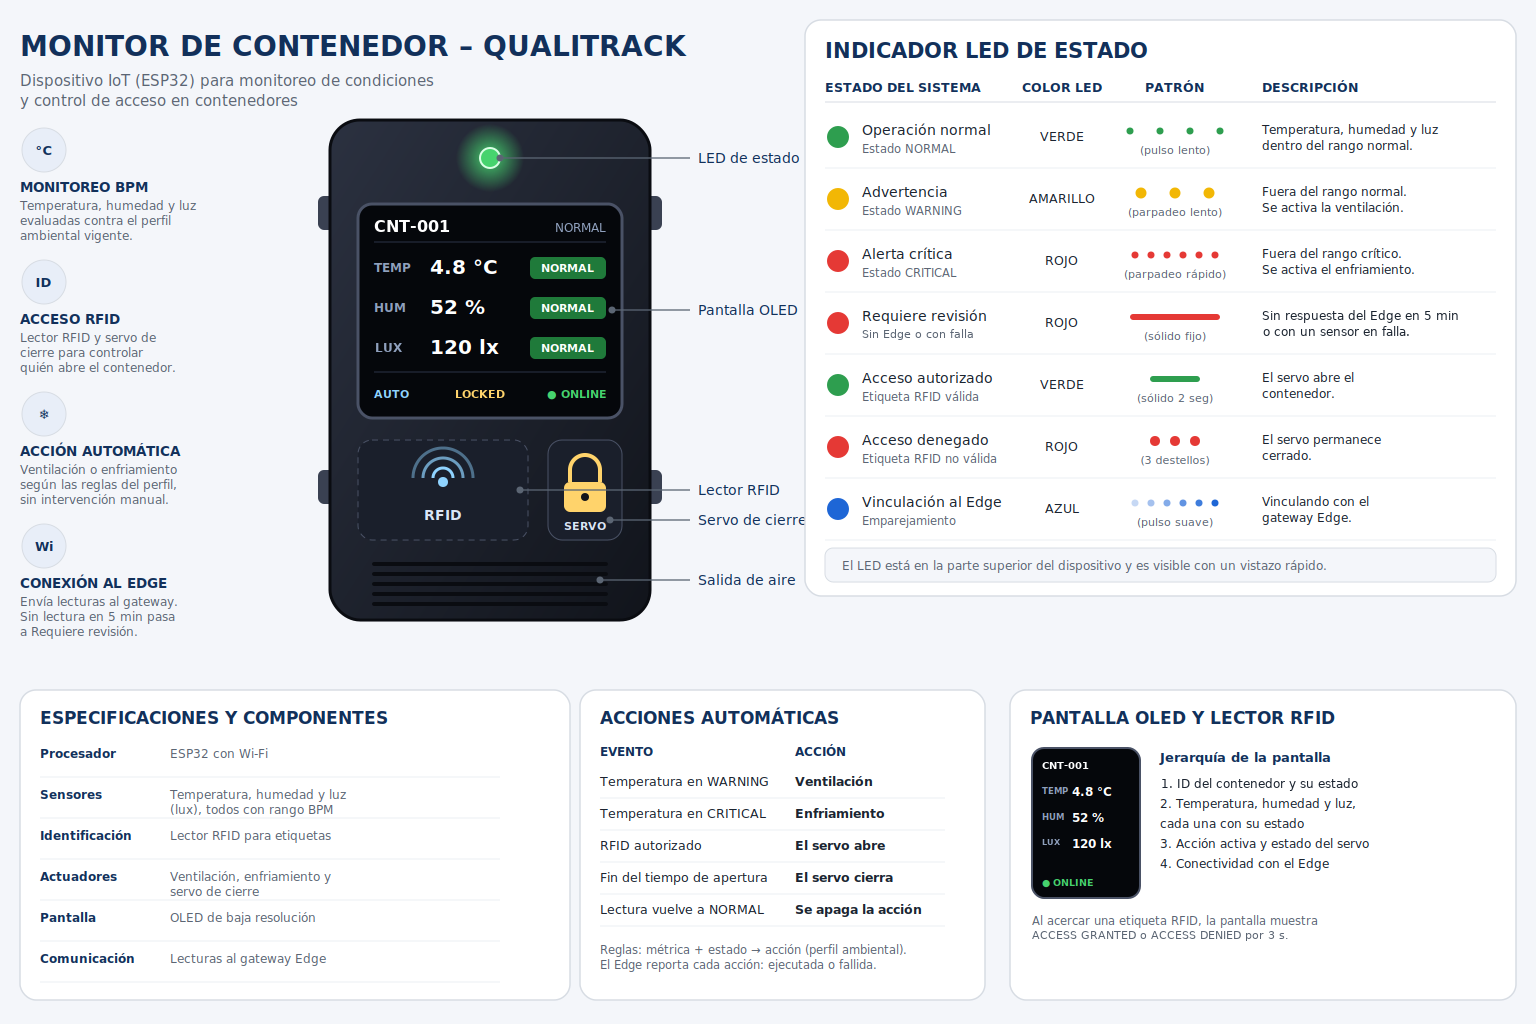
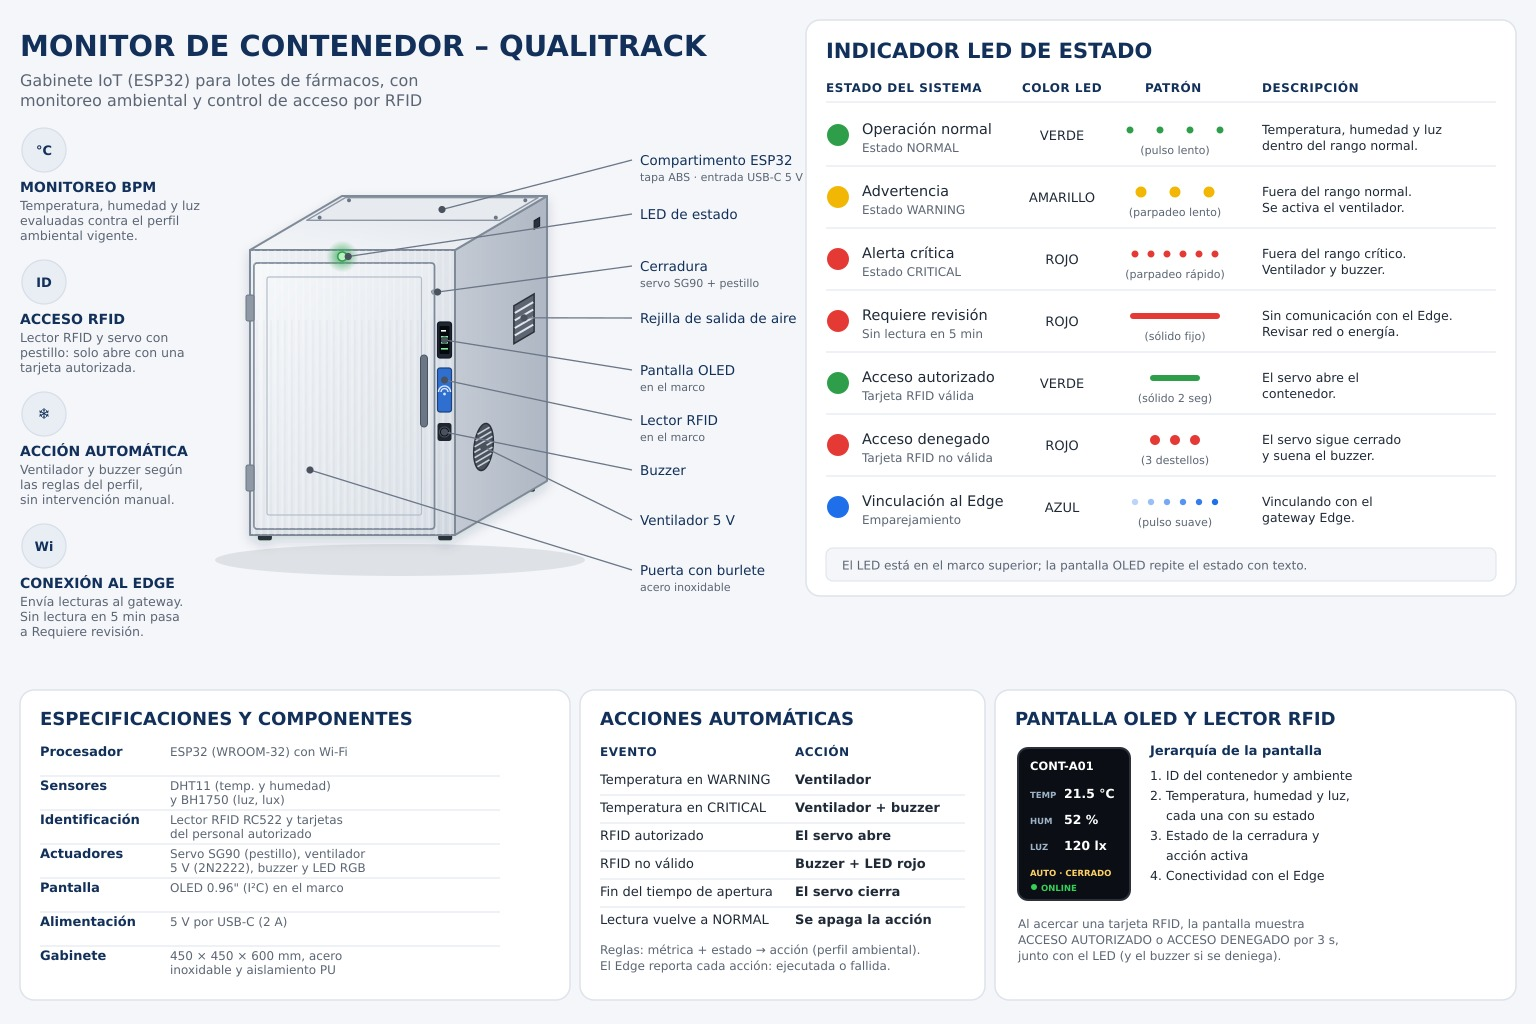
docs(chapter5): show the sketches, exploded views and blueprints of the IoT devices
Section 5.6 explains the circuit of each node and the physical design of the Environment Monitor and of the Container
Monitor with their sketches and exploded views, and the two iterations of the Container Monitor blueprint, the second
one aligned with the firmware. The style guidelines describe the Container Monitor as the cabinet itself, add the
measures of the Environment Monitor and explain each infographic.

diff --git a/report/main-content/chapter-v-solution-ui-ux-design/30-iot-device-design.md b/report/main-content/chapter-v-solution-ui-ux-design/30-iot-device-design.md
@@ -168,7 +168,7 @@ En la siguiente imagen, elaborada en Cirkit Designer, se muestran los dos nodos 
 RC522, DHT, servo, ventilador con transistor, LED RGB y buzzer).
 
 <div align="center">
-  <img src="../../assets/img/main-content/chapter-v/iot-designs/qualitrack-circuit.png" alt="Circuito de los dispositivos IoT en Cirkit Designer" width="900px"/>
+  <img src="../../assets/img/main-content/chapter-v/iot-designs/qualitrack-circuit.png" alt="Circuito de los dispositivos IoT en Cirkit Designer" width="100%">
 </div>
 
 **Conexiones del Monitor de Ambiente:**
@@ -206,21 +206,130 @@ por Wi-Fi o Ethernet.
 * El servo y el ventilador se alimentan desde el pin de 5 V del ESP32; si hay reinicios, se deben usar una fuente
   suficiente y un condensador de desacople.
 
+**Circuito de cada nodo:**
+
+Las siguientes imágenes separan el circuito de cada nodo para leer con más detalle sus conexiones. En el Monitor de
+Ambiente, el PIR y el MQ-135 son las entradas y el LED RGB y el buzzer las salidas locales. En el Monitor de Contenedor
+se distinguen los tres buses: I2C, compartido por la pantalla OLED y el BH1750; SPI, del lector RC522; y un solo hilo,
+del DHT22. Los actuadores van conectados a pines de salida: el servo por PWM y el ventilador a través del 2N2222.
+
+<div align="center">
+  <img src="../../assets/img/main-content/chapter-v/iot-designs/environment-monitor-circuit.png" alt="Circuito del Monitor de Ambiente en Cirkit Designer" width="100%">
+</div>
+
+<div align="center">
+  <img src="../../assets/img/main-content/chapter-v/iot-designs/container-monitor-circuit.png" alt="Circuito del Monitor de Contenedor en Cirkit Designer" width="100%">
+</div>
+
 **Diseño físico:**
 
-El Monitor de Ambiente se plantea como una carcasa compacta de montaje en pared o techo, con el sensor PIR al centro
-y el LED RGB de estado a su lado, aberturas de ventilación laterales para el MQ-135 y la rejilla del buzzer en la
-parte inferior. El Monitor de Contenedor se plantea como un módulo para montar sobre o junto al contenedor, con la
-pantalla OLED al frente, la zona del lector RFID junto al indicador del servo, el LED de estado en la parte superior y
-una rejilla de aire para el ventilador. La alimentación USB de 5 V se ubica en un lateral de cada carcasa.
+El diseño físico traslada el circuito a un objeto que el personal del laboratorio puede instalar, limpiar y leer de un
+vistazo. Cada dispositivo se presenta con un boceto de sus vistas (con medidas y ubicación de uso) y una vista
+explosionada que muestra cómo se arman sus piezas. El Monitor de Contenedor se presenta además con su plano general de
+conjunto.
+
+**Monitor de Ambiente**
+
+El Monitor de Ambiente es una carcasa cuadrada de ABS de 110 × 110 mm y 56 mm de profundidad (45 mm sin la placa de
+montaje). Se instala uno por ambiente, en pared o techo, a unos 2,2 m de altura, para que el sensor PIR cubra la zona de
+trabajo y el LED se vea desde cualquier punto de la sala.
+
+La cara frontal reúne todo lo que el personal necesita ver u oír:
+
+* **LED RGB con difusor opalino**, en la parte superior: el difusor suaviza la luz en un halo circular, de modo que el
+  estado (`NORMAL`, `WARNING`, `CRITICAL`) se reconoce de lejos sin deslumbrar.
+* **Lente PIR**, al centro: un domo que amplía el campo de detección de movimiento del sensor.
+* **Rejillas de aire** a ambos lados y **ventilación lateral**: dejan que el aire del ambiente llegue al MQ-135, sin
+  exponer la electrónica.
+* **Perforaciones del buzzer**, en la parte inferior: el sonido de alerta sale al ambiente sin abrir la carcasa.
+
+La entrada de 5 V por USB-C está en la cara inferior de la carcasa.
 
 <div align="center">
-  <img src="../../assets/img/main-content/chapter-v/iot-designs/environment-monitor-circuit.png" alt="Circuito del Monitor de Ambiente en Cirkit Designer" width="900px"/>
+  <img src="../../assets/img/main-content/chapter-v/iot-designs/environment-monitor-sketch.jpg" alt="Boceto del Monitor de Ambiente: vistas, medidas e instalación" width="100%">
 </div>
 
+La vista explosionada muestra el orden de montaje de arriba hacia abajo:
+
+1. **Difusor opalino** y **tubo guía de luz**, que llevan la luz del LED RGB de la placa hasta la cara frontal.
+2. **Tapa frontal**, con las aberturas del PIR, del aire y del buzzer.
+3. **Lente Fresnel** del PIR, alineada con el sensor de la placa.
+4. **Placa del circuito**, con el MQ-135, el sensor PIR, el LED RGB y el buzzer, conectada al **ESP32** por cables.
+5. **Base posterior**, que aloja la placa y la entrada USB-C.
+6. **Placa de montaje a pared**, que se fija primero y sobre la que se encaja el dispositivo.
+
+Separar la placa de montaje permite retirar el dispositivo para mantenimiento o recalibración del MQ-135 sin volver a
+perforar la pared.
+
 <div align="center">
-  <img src="../../assets/img/main-content/chapter-v/iot-designs/container-monitor-circuit.png" alt="Circuito del Monitor de Contenedor en Cirkit Designer" width="900px"/>
+  <img src="../../assets/img/main-content/chapter-v/iot-designs/environment-monitor-exploded-view.jpg" alt="Vista explosionada del Monitor de Ambiente" width="100%">
 </div>
+
+**Monitor de Contenedor**
+
+El Monitor de Contenedor no es un módulo que se pega a un mueble: es el propio contenedor. Se diseña como un gabinete
+de 450 × 450 × 600 mm, de acero inoxidable con aislamiento de poliuretano (PU), para guardar viales y cajas de lote de
+fármacos y materias primas en almacenes y laboratorios. Así, los sensores miden exactamente el aire en el que están los
+lotes, y el acceso queda controlado por la propia puerta.
+
+Sus partes principales son:
+
+* **Puerta con burlete** y **cerradura con servo**: el burlete sella la cámara para mantener la temperatura y la
+  humedad; el servo SG90 mueve un pestillo que solo se abre con una etiqueta RFID autorizada.
+* **Panel del marco**, junto a la puerta: reúne la **pantalla OLED**, el **lector RFID** y el **buzzer**, para que el
+  operario lea el estado y acerque su tarjeta en el mismo punto.
+* **LED de estado**, en el marco superior del gabinete.
+* **Tres bandejas perforadas** y extraíbles: dejan circular el aire entre los lotes y facilitan la carga y la limpieza.
+* **Ventilador de 5 V** en un lateral y **rejilla de salida de aire** en el lado opuesto: renuevan el aire de la cámara
+  cuando la temperatura pasa a `WARNING`.
+* **Compartimento electrónico sellado** sobre el gabinete, con **tapa de ABS**: aísla el ESP32 y la placa de conexiones
+  de la cámara, y la tapa de plástico evita que el acero bloquee la señal Wi-Fi.
+* **Entrada USB-C de 5 V** en la parte superior trasera.
+
+<div align="center">
+  <img src="../../assets/img/main-content/chapter-v/iot-designs/container-monitor-sketch.jpg" alt="Boceto del Monitor de Contenedor: vistas, bandeja e instalación" width="100%">
+</div>
+
+La vista explosionada muestra cómo se reparten los componentes. La electrónica de control (ESP32, placa de conexiones y
+entrada USB-C) queda arriba, en el compartimento sellado. Desde ahí, el cableado baja por el interior hasta los
+sensores: el **BH1750** y el sensor de temperatura y humedad, ubicados entre las bandejas para medir donde están los
+lotes. También llega a los elementos del panel del marco (**OLED**, **RC522** y **buzzer**), al **servo** del pestillo y
+al **ventilador** con su rejilla.
+
+<div align="center">
+  <img src="../../assets/img/main-content/chapter-v/iot-designs/container-monitor-exploded-view.jpg" alt="Vista explosionada del Monitor de Contenedor" width="100%">
+</div>
+
+**Plano general de conjunto del Monitor de Contenedor**
+
+El plano reúne en una lámina A3 apaisada, a escala 1:5, la vista isométrica explosionada, la vista frontal con la puerta
+abierta, el corte lateral con el flujo de aire y el detalle del compartimento electrónico. Se acompaña de la leyenda de
+componentes, los elementos estructurales, la asignación de pines del ESP32 y el flujo de datos: contenedor (ESP32) →
+Wi-Fi → Edge (Raspberry Pi) → nube QualiTrack → aplicaciones web y móvil.
+
+El diseño pasó por dos iteraciones:
+
+* **Prototipo v1** (10/11/2026): proponía enfriar la cámara con un **módulo Peltier** con disipadores y una compuerta de
+  ventilación movida por el servo, alimentados con una fuente de 12 V / 5 V y un módulo de relés. Esto exigía una fuente
+  de 220 VAC dentro del gabinete y una etapa de potencia aparte.
+
+<div align="center">
+  <img src="../../assets/img/main-content/chapter-v/iot-designs/container-monitor-blueprint-v1.jpg" alt="Plano general del Monitor de Contenedor, prototipo v1" width="100%">
+</div>
+
+* **Prototipo v2** (15/11/2026): se ajustó al firmware construido. Todo el circuito funciona a 5 V / 3,3 V desde una
+  sola entrada USB-C (2 A); el ventilador se conmuta con un transistor 2N2222 en lugar de relés; el servo SG90 traba la
+  puerta en lugar de mover una compuerta; y el panel del marco incorpora la pantalla OLED, el lector RFID y el buzzer.
+  El enfriamiento se representa con la ventilación del gabinete, lo que simplifica la alimentación y deja un prototipo
+  que se puede armar y simular en Wokwi.
+
+<div align="center">
+  <img src="../../assets/img/main-content/chapter-v/iot-designs/container-monitor-blueprint-v2.jpg" alt="Plano general del Monitor de Contenedor, prototipo v2" width="100%">
+</div>
+
+La asignación de pines del plano v2 coincide con la tabla de conexiones de esta sección (DHT22 en GPIO 15, I2C en
+GPIO 21 / 22, RC522 en GPIO 5 / 2 y 18 / 23 / 19, servo en GPIO 13, ventilador en GPIO 12, buzzer en GPIO 25 y LED RGB
+en GPIO 4 / 16 / 17).
 
 ### Flujos de interacción de los dispositivos IoT
 
@@ -234,7 +343,7 @@ Describe la puesta en marcha: el operador instala el dispositivo, lo conecta a l
 componentes y se vincula con el Edge, que registra el nodo y lo reenvía a la nube.
 
 <div align="center">
-  <img src="../../assets/img/main-content/chapter-v/iot-designs/installation-flow.png" alt="Flujo 1: Instalación y encendido" width="900px"/>
+  <img src="../../assets/img/main-content/chapter-v/iot-designs/installation-flow.png" alt="Flujo 1: Instalación y encendido" width="100%">
 </div>
 
 **Flujo 2: Monitoreo normal del entorno**
@@ -243,7 +352,7 @@ Representa el funcionamiento habitual: los sensores miden, el ESP32 filtra y env
 con el perfil vigente y la aplicación muestra el estado. Si el estado no es normal, se abre o escala una alerta.
 
 <div align="center">
-  <img src="../../assets/img/main-content/chapter-v/iot-designs/normal-monitoring-flow.png" alt="Flujo 2: Monitoreo normal" width="900px"/>
+  <img src="../../assets/img/main-content/chapter-v/iot-designs/normal-monitoring-flow.png" alt="Flujo 2: Monitoreo normal" width="100%">
 </div>
 
 **Flujo 3: Acción automática por desviación en el contenedor**
@@ -253,7 +362,7 @@ Muestra cómo el Monitor de Contenedor reacciona cuando una métrica sale del ra
 la acción al Edge con su causa y su resultado, y la nube abre la alerta para que el personal la atienda.
 
 <div align="center">
-  <img src="../../assets/img/main-content/chapter-v/iot-designs/automatic-action-flow.png" alt="Flujo 3: Acción automática" width="900px"/>
+  <img src="../../assets/img/main-content/chapter-v/iot-designs/automatic-action-flow.png" alt="Flujo 3: Acción automática" width="100%">
 </div>
 
 **Flujo 4: Control de acceso por RFID**
@@ -263,5 +372,5 @@ autorizadas del nodo y, según el resultado, abre el servo por 10 segundos con s
 cerrado con señal roja y buzzer. La lectura de la etiqueta se envía al Edge, que la registra en la nube.
 
 <div align="center">
-  <img src="../../assets/img/main-content/chapter-v/iot-designs/rfid-access-flow.png" alt="Flujo 4: Acceso por RFID" width="900px"/>
+  <img src="../../assets/img/main-content/chapter-v/iot-designs/rfid-access-flow.png" alt="Flujo 4: Acceso por RFID" width="100%">
 </div>

diff --git a/report/main-content/chapter-v-solution-ui-ux-design/25-style-guidelines.md b/report/main-content/chapter-v-solution-ui-ux-design/25-style-guidelines.md
@@ -28,7 +28,7 @@ mediante telemetría IoT. Y finalmente la tipografía del logo el nombre divide 
 tecnológico para la calidad y el verde de cumplimiento para la trazabilidad.
 
 <p align="center">
-  <img src="../../assets/img/main-content/chapter-v/style-guidelines/qualitrack.png" alt="QualiTrack Logo" width="350px" height="auto"/>
+  <img src="../../assets/img/main-content/chapter-v/style-guidelines/qualitrack.png" alt="QualiTrack Logo" width="100%">
 </p>
 
 **Typography**
@@ -47,7 +47,7 @@ La jerarquía tipográfica se establece de la siguiente manera para garantizar c
 * **Botones y etiquetas (span):** 1.4rem (aprox. 14px) a 1.8rem (aprox. 18px).
 
 <p align="center">
-  <img src="../../assets/img/main-content/chapter-v/style-guidelines/stylefont.png" alt="Rubik Typography Guide" width="500px" height="auto"/>
+  <img src="../../assets/img/main-content/chapter-v/style-guidelines/stylefont.png" alt="Rubik Typography Guide" width="100%">
 </p>
 
 Esta distribución garantiza un contraste óptimo entre el texto y el fondo, superando un ratio mínimo de 4.5:1 según las
@@ -78,7 +78,7 @@ tecnológico y control. Se ha distribuido en tres categorías principales:
 * **Advertencia:** Amarillo (#FFC107) para notificaciones y avisos importantes.
 
 <p align="center">
-  <img src="../../assets/img/main-content/chapter-v/style-guidelines/color-pallete.png" alt="QualiTrack Color Palette" width="800px" height="auto"/>
+  <img src="../../assets/img/main-content/chapter-v/style-guidelines/color-pallete.png" alt="QualiTrack Color Palette" width="100%">
 </p>
 
 Esta combinación cromática refleja los valores de nuestra marca y busca transmitir al público (laboratorios e
@@ -338,11 +338,16 @@ Estos lineamientos aplican a los componentes de la capa Embedded:
 
 **Diseño Físico**
 
-- **Forma**: carcasa compacta de perfil bajo, con el sensor de movimiento al centro y un LED RGB de estado a su lado,
-  visible desde cualquier punto del ambiente.
-- **Ventilación**: aberturas laterales para el sensor de calidad de aire, sin exponer la electrónica.
-- **Buzzer**: rejilla en la parte inferior de la cara frontal.
-- **Material**: plástico ABS blanco, fácil de limpiar con desinfectantes de uso en laboratorio.
+- **Forma**: carcasa cuadrada de perfil bajo, de 110 × 110 mm y 56 mm de profundidad, con el lente del sensor de
+  movimiento al centro y el LED RGB de estado sobre él, visible desde cualquier punto del ambiente.
+- **LED de estado**: dentro de un tubo guía de luz con difusor opalino, que crea un resplandor circular suave y legible
+  a distancia sin deslumbrar.
+- **Ventilación**: rejillas frontales a ambos lados y aberturas laterales para el sensor de calidad de aire, sin exponer
+  la electrónica.
+- **Buzzer**: perforaciones en la parte inferior de la cara frontal.
+- **Alimentación**: entrada USB-C de 5 V en la cara inferior.
+- **Instalación**: placa de montaje en pared o techo, a unos 2,2 m de altura.
+- **Material**: plástico ABS, fácil de limpiar con desinfectantes de uso en laboratorio.
 - **Identificación**: etiqueta con el ID del dispositivo y el código del ambiente asignado.
 
 **Indicador LED de Estado**
@@ -376,9 +381,14 @@ El nodo no tiene botones: se enciende al conectarlo a la alimentación USB, cali
 30 s y después funciona sin intervención del personal, que sigue su estado en el LED, el buzzer y las aplicaciones web y
 móvil.
 
-**Imágen del dispositivo**
+**Imagen del dispositivo**
 
-![Monitor de Ambiente](../../assets/img/main-content/chapter-v/style-guidelines/environment-monitor.png)
+La infografía resume los lineamientos del Monitor de Ambiente. Muestra la cara frontal con el LED RGB en su difusor,
+el sensor de movimiento, el sensor de aire y el buzzer, junto con los estados del LED, los eventos del buzzer, las
+especificaciones y el recorrido de una lectura hasta convertirse en alerta. Su diseño físico detallado se presenta en la
+sección 5.6.
+
+<p align="center"><img src="../../assets/img/main-content/chapter-v/style-guidelines/environment-monitor.png" alt="Monitor de Ambiente" width="100%"></p>
 
 **Dispositivo 2 — Monitor de Contenedor**
 
@@ -386,7 +396,7 @@ móvil.
 
 | Atributo          | Detalle                                                                                                              |
 |-------------------|----------------------------------------------------------------------------------------------------------------------|
-| Tipo              | Dispositivo ESP32 montado sobre o junto al contenedor                                                                |
+| Tipo              | Gabinete IoT con ESP32 integrado para lotes de fármacos y materias primas                                            |
 | Ubicación         | Varios por ambiente; uno por contenedor monitoreado (cadena de frío, almacén de materias primas, producto terminado) |
 | Función principal | Medir temperatura, humedad y luz; leer etiquetas RFID; ejecutar acciones automáticas                                 |
 | Modo de operación | Continuo; los actuadores responden a las reglas del perfil ambiental                                                 |
@@ -394,12 +404,17 @@ móvil.
 
 **Diseño Físico**
 
-- **Pantalla**: display OLED en la cara frontal, a la altura de la vista.
-- **Lector RFID**: zona delimitada junto a la pantalla, con ícono de ondas.
-- **Servo de cierre**: indicador de candado junto al lector RFID.
-- **Salida de aire**: rejilla inferior para ventilación/enfriamiento.
-- **LED de estado**: en la parte superior del dispositivo.
-- **Material**: carcasa resistente a desinfectantes y a la humedad propia de cámaras frías.
+- **Forma**: gabinete de 450 × 450 × 600 mm con puerta frontal y tres bandejas perforadas y extraíbles para viales y
+  cajas de lote.
+- **Panel del marco**: junto a la puerta, reúne la pantalla OLED, el lector RFID (con ícono de
+  ondas) y el buzzer, para leer el estado y acercar la tarjeta en un mismo punto.
+- **Cierre**: puerta con burlete de sellado y pestillo movido por el servo; solo abre con una etiqueta autorizada.
+- **LED de estado**: en el marco superior del gabinete.
+- **Ventilación**: ventilador de 5 V en un lateral y rejilla de salida de aire en el lado opuesto.
+- **Electrónica**: compartimento sellado sobre el gabinete, con tapa de ABS para no bloquear la señal Wi-Fi del ESP32 y
+  entrada USB-C de 5 V.
+- **Material**: acero inoxidable con aislamiento de poliuretano, resistente a desinfectantes y a la humedad propia de
+  cámaras frías.
 
 **Indicador LED de Estado**
 
@@ -460,9 +475,14 @@ Jerarquía de información:
 El nodo no tiene botones: se enciende al conectarlo a la alimentación USB, y el personal interactúa con él acercando su
 etiqueta RFID al lector, que abre el contenedor y, en `CRITICAL`, reconoce la alarma local.
 
-**Imágen del dispositivo**
+**Imagen del dispositivo**
 
-![Monitor de Contenedor](../../assets/img/main-content/chapter-v/style-guidelines/container-monitor.png)
+La infografía resume los lineamientos del Monitor de Contenedor en una sola lámina. Muestra el gabinete con la
+ubicación de cada elemento de interfaz (LED, pantalla OLED, lector RFID, buzzer, cerradura, ventilador y rejilla) y la
+tabla de estados del LED con su color y patrón. Incluye además las especificaciones, las acciones automáticas y la
+jerarquía de la pantalla OLED. Su diseño físico detallado se presenta en la sección 5.6.
+
+<p align="center"><img src="../../assets/img/main-content/chapter-v/style-guidelines/container-monitor.png" alt="Monitor de Contenedor" width="100%"></p>
 
 **Edge Device**
 
